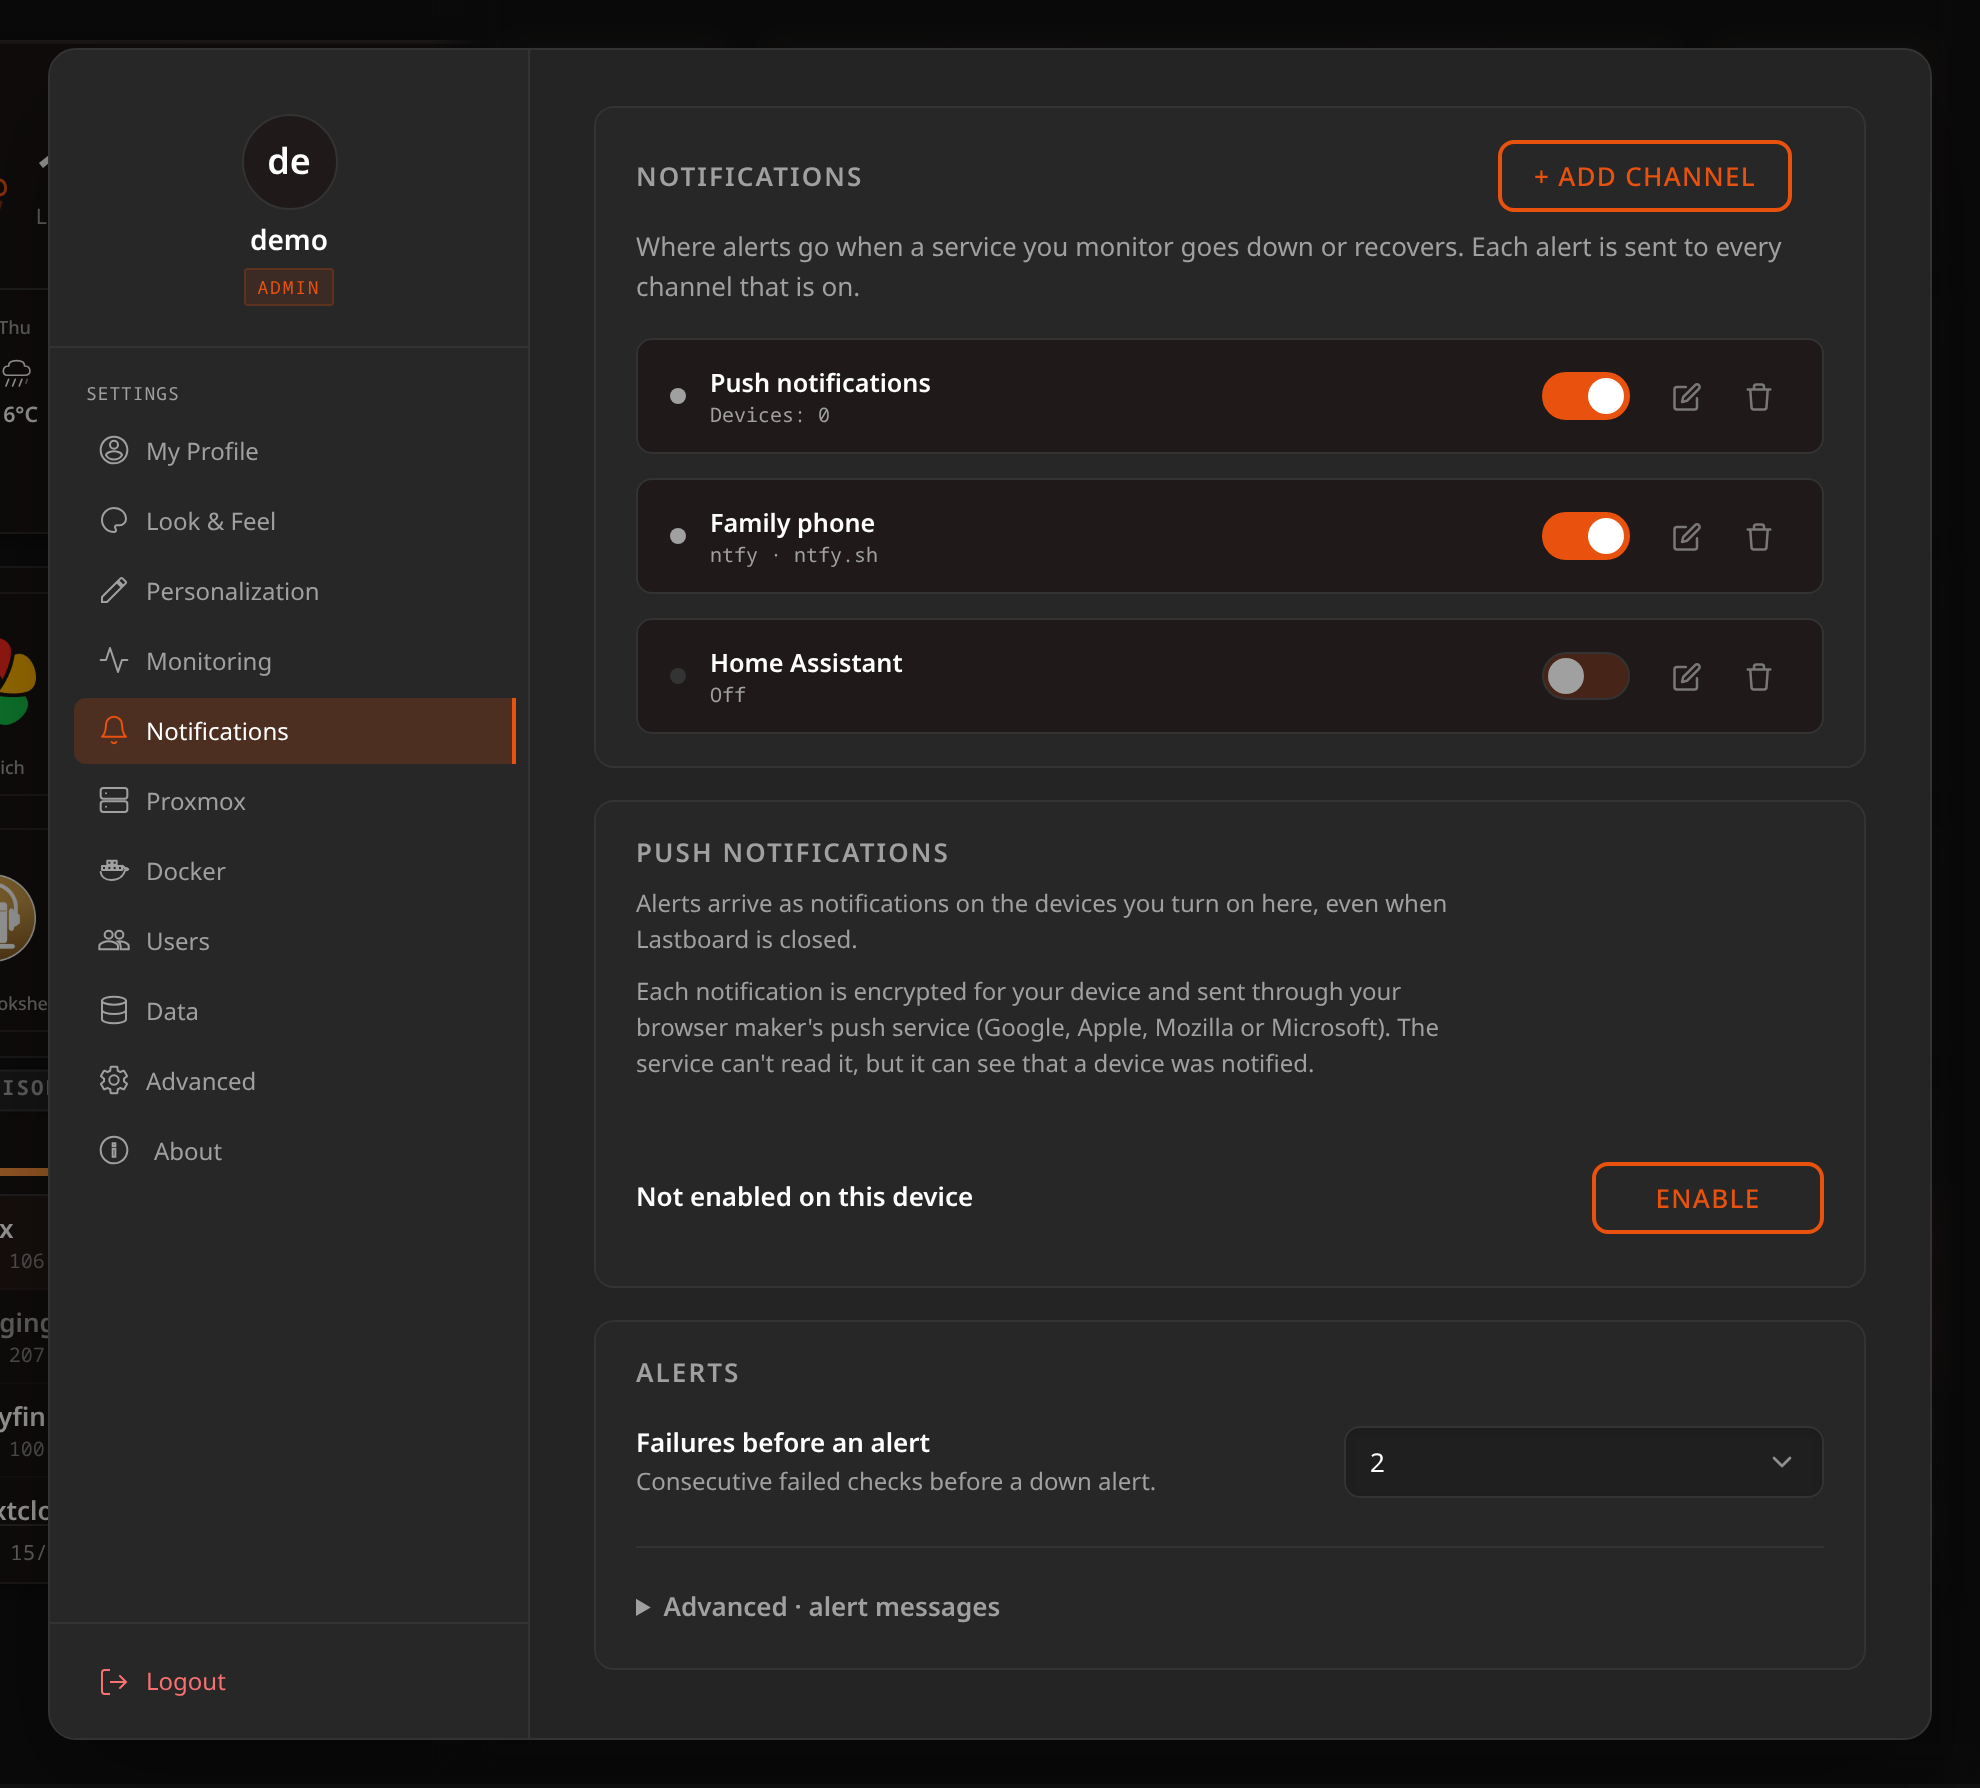
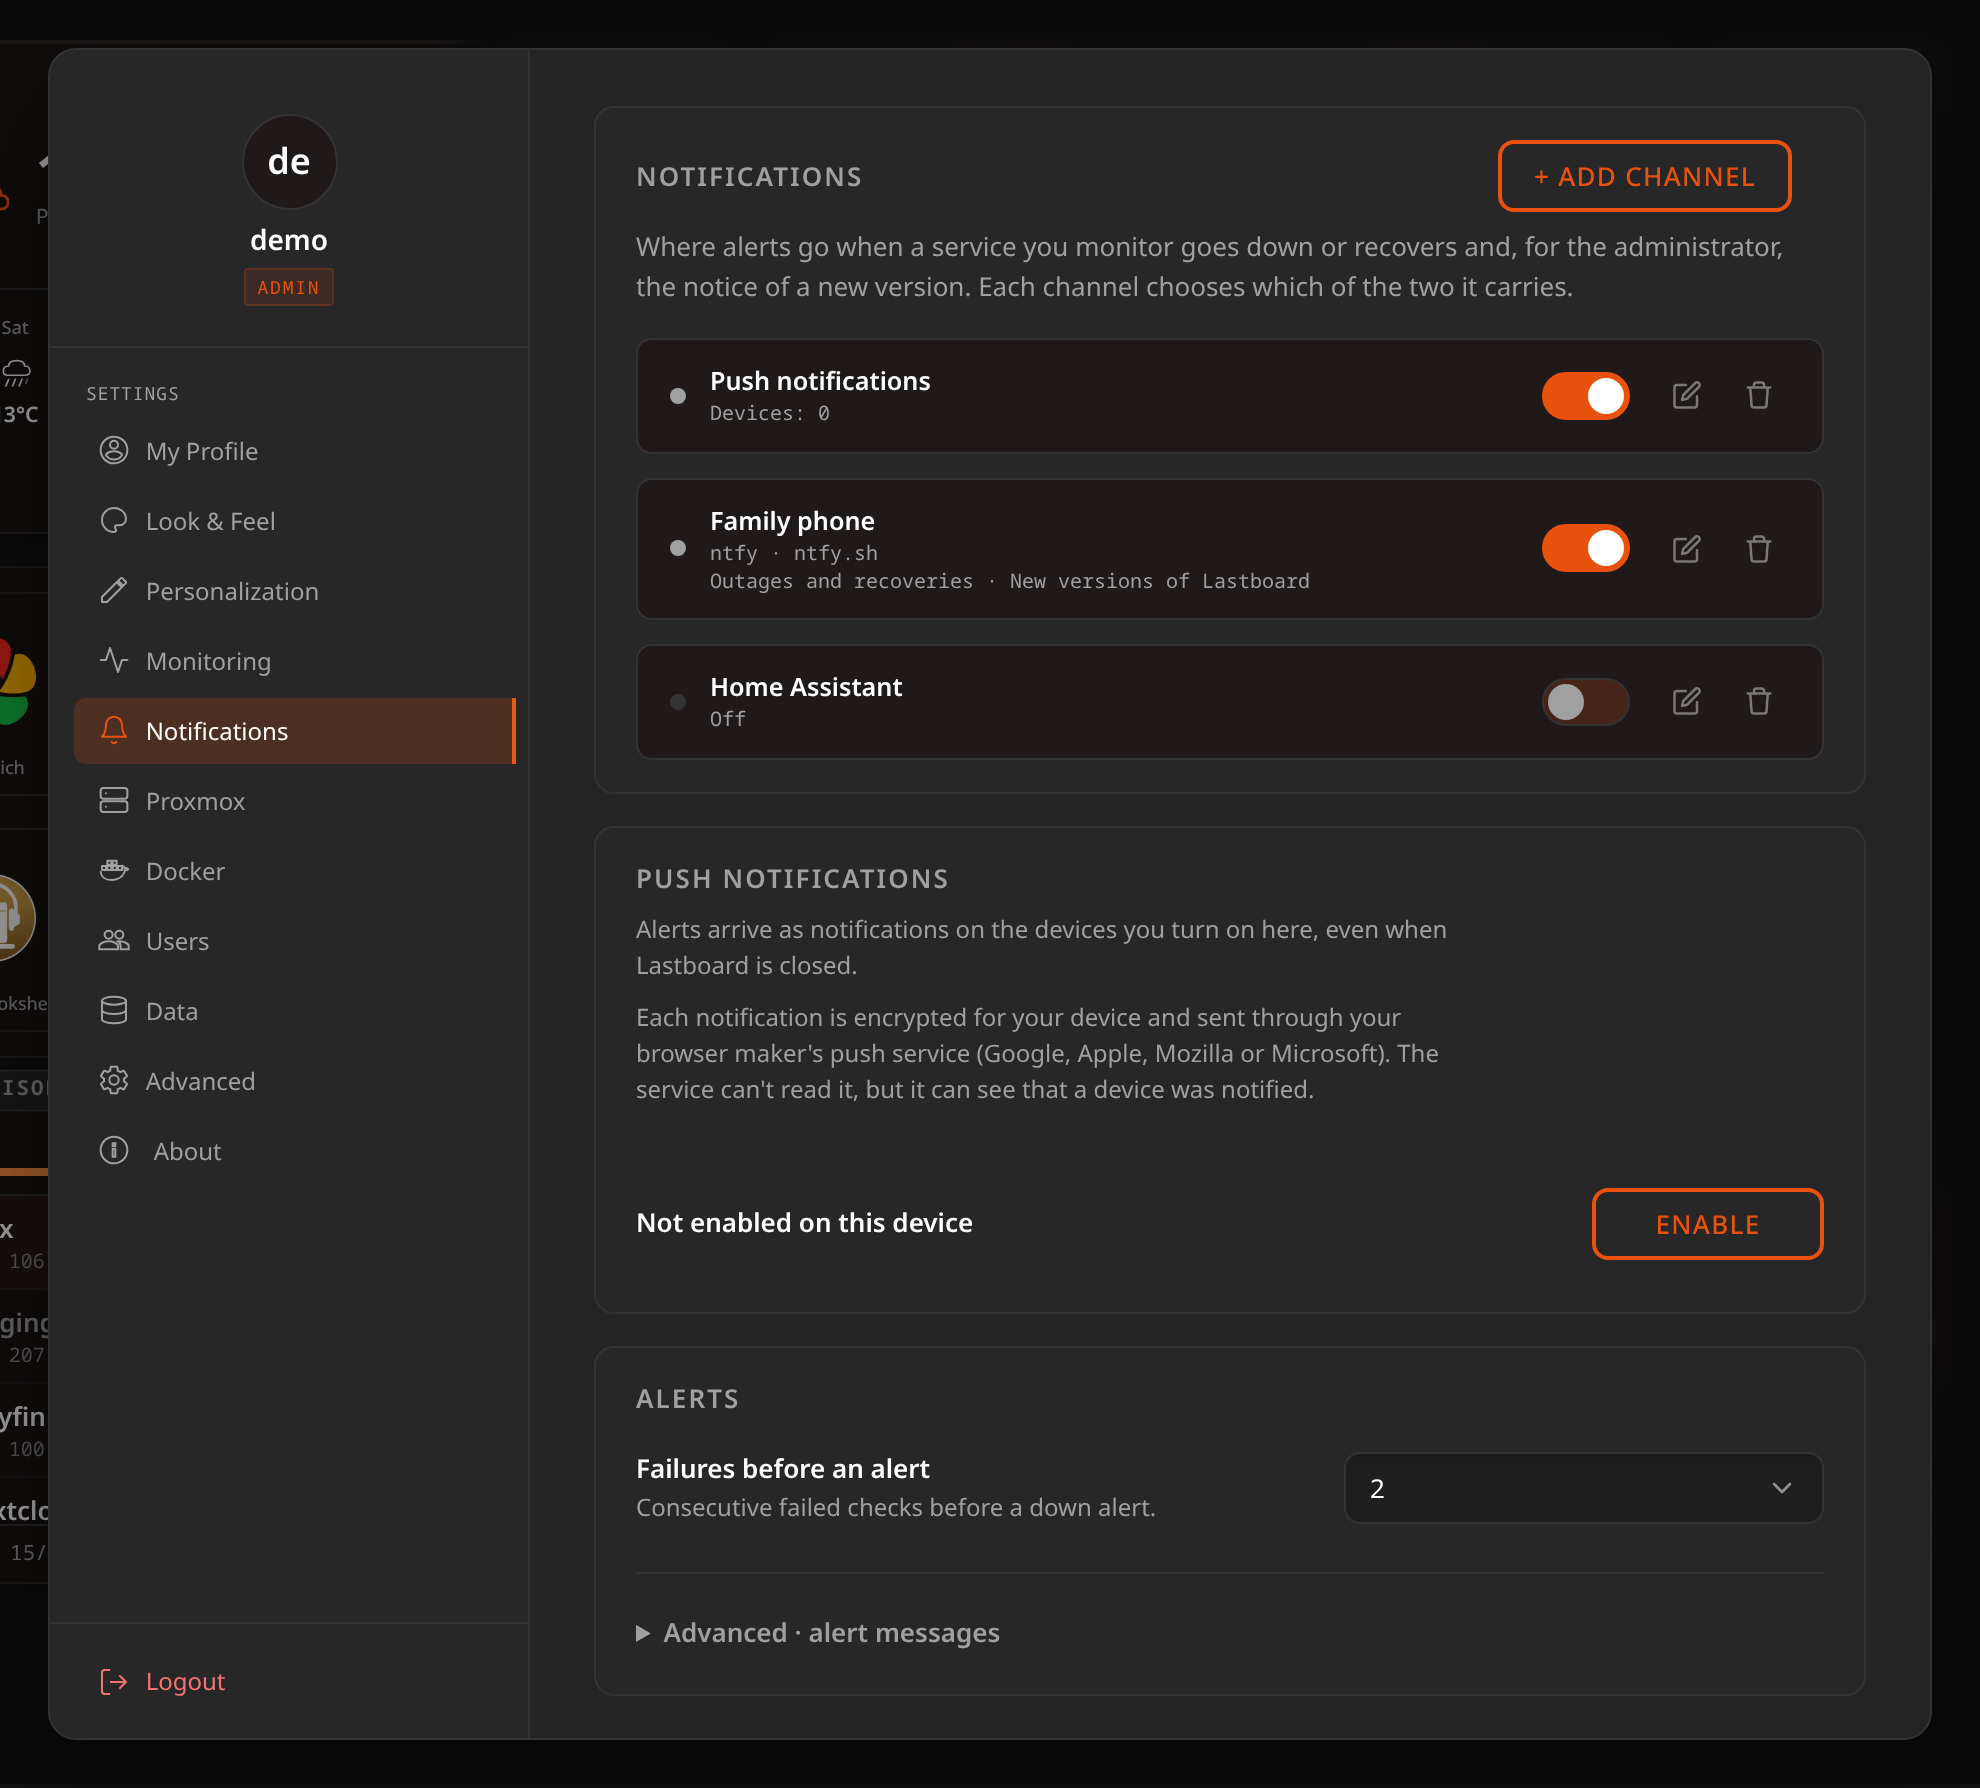
docs: the updater and the notice of a new version, as they work now
The README and the screenshot of the notification settings described an
updater that put the old binary back if the swap failed, and alerts that
went to channels only. The updater now tries the new binary and copies the
database before installing, keeps the old binary beside the new one and
restarts without closing the port, and a channel can carry the notice of a
new version. The screenshot of Settings -> Notifications is made again,
with a channel that carries it, from the script that seeds the example.

diff --git a/scripts/docs-shots.ts b/scripts/docs-shots.ts
@@ -1005,7 +1005,7 @@ async function seedLiveData(dbPath: string, token: string, csrf: string) {
     await api('/monitor/channels', {
         channels: [
             { type: 'push', name: '', enabled: true },
-            { type: 'ntfy', name: 'Family phone', url: 'https://ntfy.sh/my-topic', enabled: true },
+            { type: 'ntfy', name: 'Family phone', url: 'https://ntfy.sh/my-topic', enabled: true, updates: true },
             { type: 'webhook', name: 'Home Assistant', url: 'https://ha.example.com/api/webhook/lastboard', enabled: false },
         ],
     });

diff --git a/README.md b/README.md
@@ -96,7 +96,7 @@ Give a bookmark a URL and a status position and Lastboard watches it. No second 
 - **Check interval** of 1, 5, 10 or 30 minutes, with **30 days of history**, pruned daily.
 - **A searchable status page** (in 24/7 mode) with every service's state, a strip of recent checks and its 24-hour, 7-day and 30-day uptime, and a tab with every outage — what was down, why, when and for how long.
 - **Per-service detail** over 24 hours, 7 days or 30 days: uptime percentages, current and average response time, a latency chart with a hover crosshair, a heartbeat strip, and an outage table with durations and recoveries.
-- **Alerts down and up** to as many **channels** as you like, in a list of their own: **ntfy**, **Gotify**, a **webhook** or **push notifications** to your phone and computers even with Lastboard closed (they go through your browser maker's push service, end-to-end encrypted, and only if you turn them on). Each channel has its own switch and its own *Send test*, says how its last alert went, and one that fails does not stop the others; a failure threshold (1, 2, 3 or 5 consecutive failures) keeps a blip from waking you.
+- **Alerts down and up** to as many **channels** as you like, in a list of their own: **ntfy**, **Gotify**, a **webhook** or **push notifications** to your phone and computers even with Lastboard closed (they go through your browser maker's push service, end-to-end encrypted, and only if you turn them on). Each channel has its own switch and its own *Send test*, says how its last alert went, and one that fails does not stop the others; a failure threshold (1, 2, 3 or 5 consecutive failures) keeps a blip from waking you. Each channel chooses what it carries, and the administrator can be told through any of them **when a new version is out**.
 - **Private services just work** — the probe runs from your server, so `10.x`, `192.168.x`, `.local` and self-signed certificates need no extra configuration.
 
 ### Docker
@@ -140,7 +140,7 @@ Give a bookmark a URL and a status position and Lastboard watches it. No second 
 
 ### Operations
 
-- **A web updater** that downloads, verifies the signature and the checksum, extracts, installs and restarts — showing each step as it happens, and putting the old binary back if the swap fails.
+- **A web updater** that downloads, verifies the signature and the checksum, extracts, **runs the new binary once on your server**, **copies your database**, installs and restarts — showing each step as it happens. Nothing is changed unless every step before the swap passed, the version you had stays beside the new one, and the server comes back **without closing its port**, so a reverse proxy or tunnel in front never sees it down.
 - **Beta channel**, opt-in per user.
 - **One-line install** on Linux with a systemd unit, `--uninstall`, `--purge` and `--reinstall`, that tells you which version you have and stops when you already have the latest, and a timestamped copy of your database taken before every upgrade.
 - **Runs unprivileged** on request (`PUID`/`PGID`), fixing data-directory ownership itself before dropping privileges.

diff --git a/docs/monitoring/overview.md b/docs/monitoring/overview.md
@@ -87,7 +87,7 @@ Clearing data does not turn monitoring off — new checks start accumulating aga
 
 When **24/7 monitoring** is on, Lastboard can send an alert when a service goes down and again when it recovers. Where alerts go is set in **Settings → Notifications**, a section of its own: a list of **channels**, as Docker and Proxmox have lists of hosts. Alerts only go out while 24/7 monitoring is on (**Settings → Monitoring**); the Notifications section says so, with a button to the place where it is turned on, when it is off.
 
-![Settings → Notifications: the list of channels, each with its own switch, the push devices and the settings every channel shares](../assets/p-notifications.png)
+![Settings → Notifications: the list of channels, each with its own switch and what it carries, the push devices and the settings every channel shares](../assets/p-notifications.png)
 
 An alert is sent to **every channel that is on**, each on its own, so one that is down does not stop the others. You can have several of the same kind (two ntfy topics, one for you and one for someone else) and up to **10** in all; push is the only one that can be there once, because its destination is your own browsers. There is no switch for alerts as a whole: they are on when any channel is on and carries them, and the section says when none does.
 
